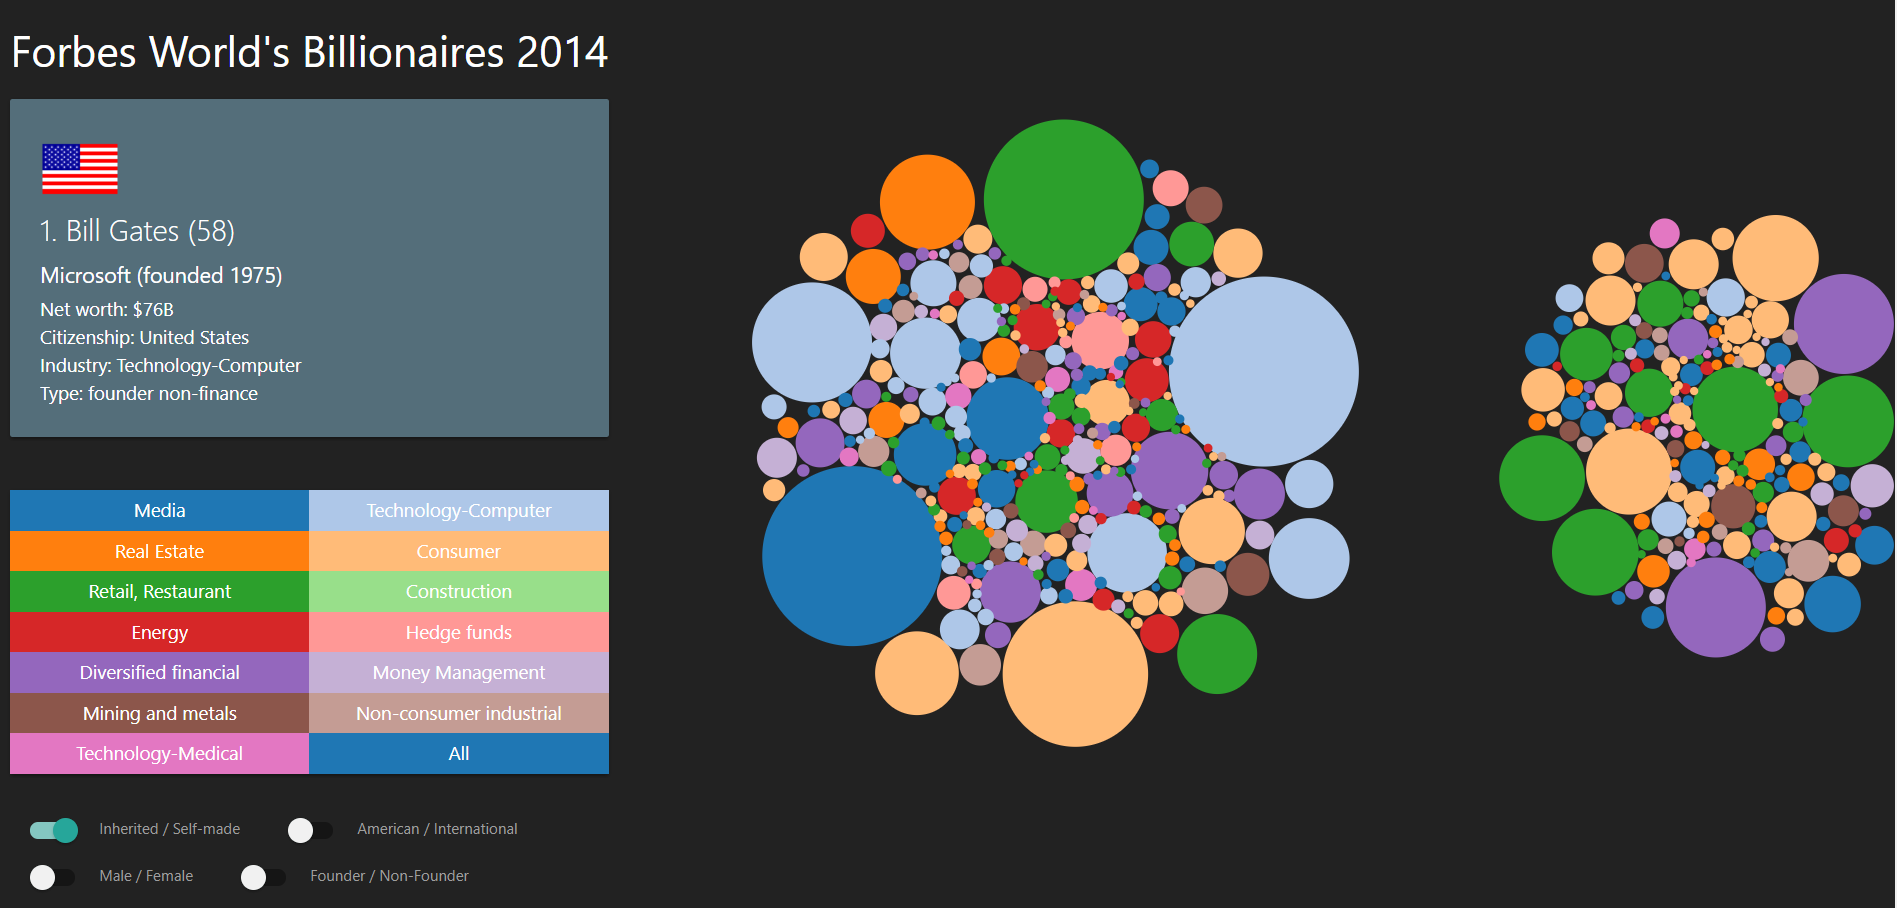
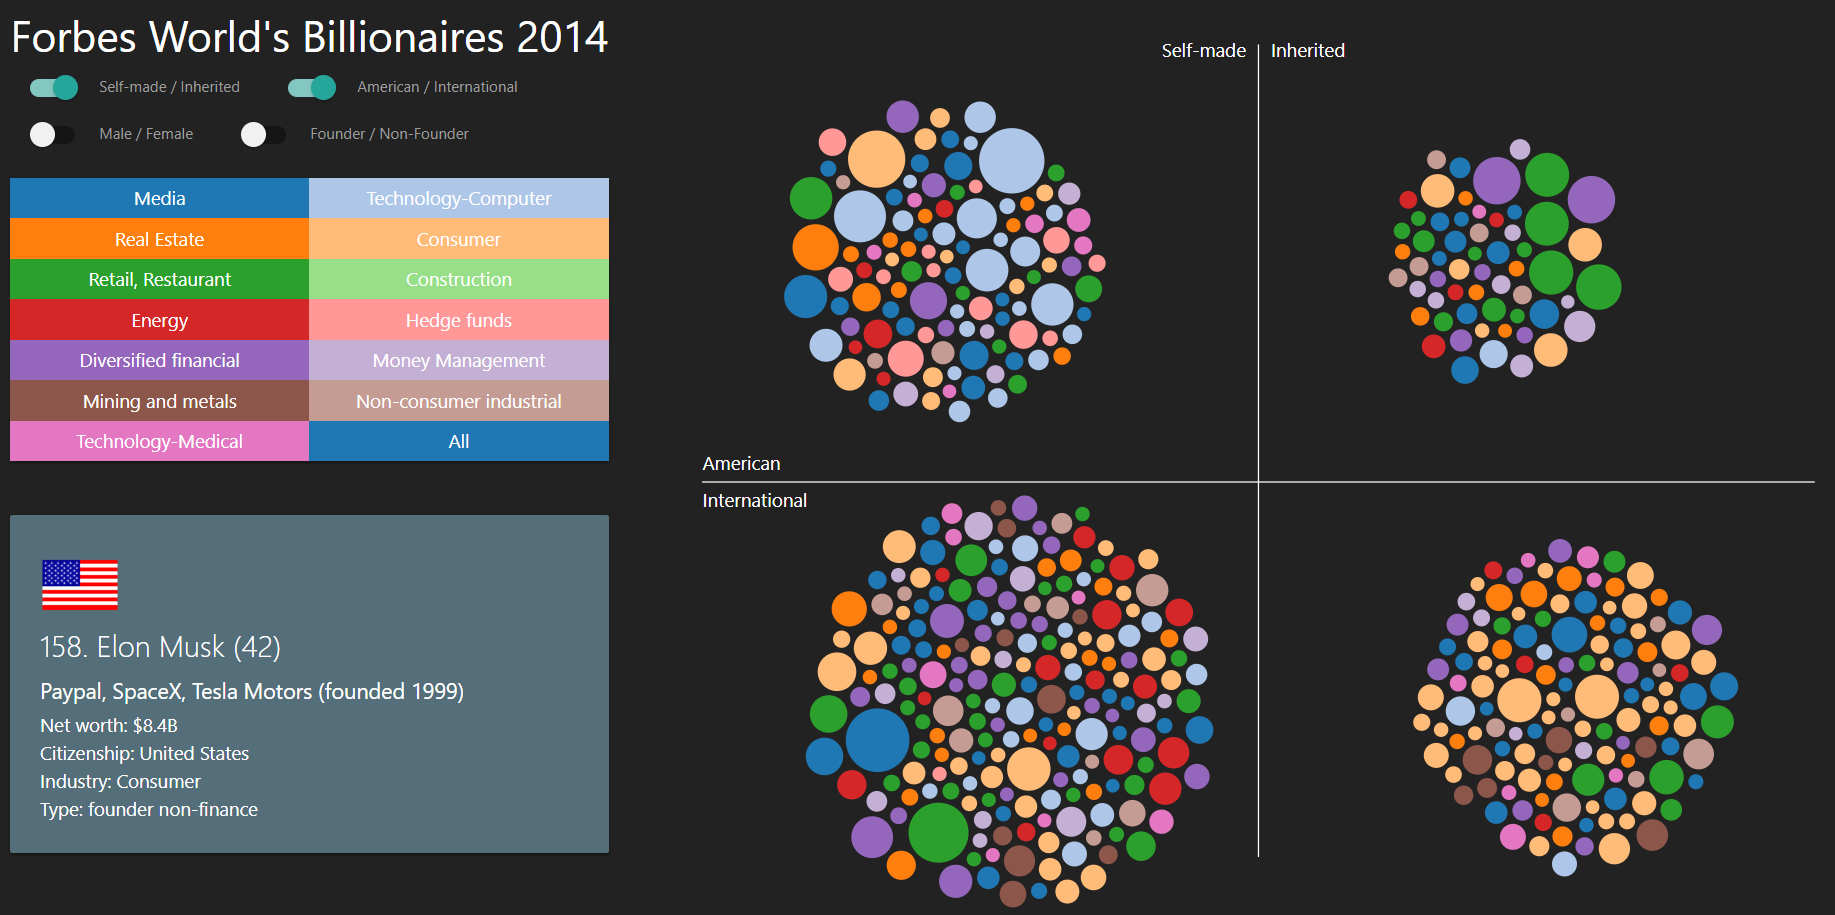
Finished labeled axis

diff --git a/billionaires.js b/billionaires.js
@@ -3,6 +3,7 @@ let allData;
 let width;
 let color = d3.scaleOrdinal(d3.schemeCategory20);
 
+// holds up to two axis over which the data is currently split
 let splitAxis = ["", ""];
 
 $(document).ready(function(){
@@ -23,13 +24,41 @@ $(document).ready(function(){
         if($(this).prop('checked')) {
         	// add an axis and split the data over the current one or two axis
          	addAxis(switchId);
-         	// get the splitting functions from the flickes switches' id's and send it to split to manipulate the data
-			split(splittingFunctions[splitAxis[0]], splittingFunctions[splitAxis[1]]);
 	    } else {
 	    	// remove the 2nd axis
 	    	removeAxis(switchId);
-	    	join();
 	    }
+
+	    console.log(splitAxis);
+
+     	// get the splitting functions from the flickes switches' id's and send it to split to manipulate the data
+		split(splittingFunctions[splitAxis[0]], splittingFunctions[splitAxis[1]]);
+
+    	// now show the appropriate axis on the visualization
+
+    	d3.select("#bubbles-svg").selectAll("g").remove(); // clear the axis canvas
+		let l = d3.select("#bubbles-svg").selectAll("g").data(splitAxis.filter((d) => d !== "")).enter().append("g");
+
+		l.append("line")
+				.attr("x1", (d, i) => (i == 0)? width / 2 : width / 16)
+				.attr("x2", (d, i) => (i == 0)? width / 2 : 15 * width / 16)
+				.attr("y1", (d, i) => (i == 0)? 50 : 400)
+				.attr("y2", (d, i) => (i == 0)? 700 : 400)
+				
+		l.append("text")
+				.attr("x", (d, i) => (i == 0)? (width / 2) - 10 : width / 16)
+				.attr("y", (d, i) => (i == 0)? 60 : 390)
+				.attr("fill", "white")
+				.attr("text-anchor", (d, i) => (i == 0)? "end" : "start")
+				.text((d, i) => splittingText[splitAxis[i]][0])
+				
+		l.append("text")
+				.attr("x", (d, i) => (i == 0)? (width / 2) + 10 : width / 16)
+				.attr("y", (d, i) => (i == 0)? 60 : 420)
+				.attr("fill", "white")
+				.text((d, i) => splittingText[splitAxis[i]][1])
+				.append("text");
+
     });
 
 	// LOAD DATA
@@ -85,9 +114,9 @@ $(document).ready(function(){
 	function buildSimulation() {
 
 		d3.forceSimulation(data)
-				  .force('x', d3.forceX().x(2 * width / 3))
-				  .force('y', d3.forceY().y(350))
-				  .force('collision', d3.forceCollide().radius((d) => 4*Math.sqrt(parseFloat(d.networthusbillion))))
+				  .force('x', d3.forceX().x(width / 2))
+				  .force('y', d3.forceY().y(400))
+				  .force('collision', d3.forceCollide().radius((d) => radius(d) + 2))
 				  .on('tick', ticked);
 
 
@@ -99,7 +128,6 @@ $(document).ready(function(){
 		d3.select("#industry").text("Industry: " + data[0].industry);
 		d3.select("#type").text("Type: " + data[0].typeofwealth);
 		d3.select("#notes").text((data[0].notes)? ("Notes: " + data[0].notes) : "");
-
 		d3.select("#flag").attr("src", "http://www.countryflags.io/" + getCountryCode(data[0]) + "/flat/64.png");
 
 	}
@@ -120,7 +148,21 @@ $(document).ready(function(){
 				    			.on('click', clickLegend);
 	}
 
+	// this function is called iteratively until the force layout has reached steady state
 	function ticked() {
+
+		// check if we're splitting over axis, and set the appropriate functions for cx and cy
+		cx = (d) => Math.max(radius(d), Math.min(width - radius(d), d.x)); // default function (not splitting)
+		cy = (d) => Math.max(radius(d), Math.min(800 - radius(d), d.y));
+
+		// splitting horizontally
+		if(splitAxis[0] !== "") {
+			cx = (d) => splittingFunctions[splitAxis[0]](d)? Math.max(radius(d), Math.min(width/2 - radius(d), d.x)) :  Math.max(radius(d) + width/2, Math.min(width - radius(d), d.x));
+		}
+		// splitting vertically
+		if(splitAxis[1] !== "") {
+			cy = (d) => splittingFunctions[splitAxis[1]](d)? Math.max(radius(d), Math.min(400 - radius(d), d.y)) :  Math.max(radius(d) + 400, Math.min(800 - radius(d), d.y));
+		}
 
 		// select all circles already there
 		let u = d3.select("#bubbles-svg").selectAll("circle").data(data);
@@ -130,39 +172,59 @@ $(document).ready(function(){
 
 		// add new ones (for new data), merge with the old ones and update both of their positions
 		u.enter().append("circle")
-		 		.attr("r", (d) => 3*Math.sqrt(parseFloat(d.networthusbillion)))
+		 		.attr("r", (d) => radius(d))
 				.attr("fill", (d) => {
 					return color(industryColor(d.industry));
 				})
 			    .on('mouseover', mouseover)
 			    .on('mouseout', mouseout)
 				.merge(u)
-				.attr('cx', (d) => d.x = Math.max(parseFloat(d.networthusbillion), Math.min(width - parseFloat(d.networthusbillion), d.x)))
-			    .attr('cy', (d) => d.y = Math.max(parseFloat(d.networthusbillion), Math.min(800 - parseFloat(d.networthusbillion), d.y)));
+				.attr('cx', (d) => d.x = cx(d))
+			    .attr('cy', (d) => d.y = cy(d));
+	}
+
+	// calculates the bubble radius of a specified billionaire based on their wealth
+	function radius(d) {
+		return 3*Math.sqrt(parseFloat(d.networthusbillion));
 	}
 
 	// splits the data over the desired one or two axis'
 	function split(xFunction, yFunction) {
 
-		console.log(yFunction);
+		// split over 2 axis
+		if(xFunction !== undefined && yFunction !== undefined) {
 
-		// data only has to be split over two axis
-		d3.forceSimulation(data)
-					  .force('x', d3.forceX().x((d) => xFunction(d)? ((2 * width / 3) - (width / 2)) : ((2 * width / 3) + (width / 6))))
-					  // if an y function is given split the data according to it, otherwise just set y coordinate = 350
-					  .force('y', d3.forceY().y((d) => (xFunction !== undefined && yFunction !== undefined)? (yFunction(d)? 200 : 600) : 350))
-					  .force('collision', d3.forceCollide().radius((d) => 3*Math.sqrt(parseFloat(d.networthusbillion)) + 2))
+			// transition simulation (billionaires can cross axis)
+			d3.forceSimulation(data)
+					  .force('x', d3.forceX().x((d) => xFunction(d)? (width / 4) : (3 * width / 4)))
+					  // if an y function is given split the data according to it, otherwise just set y coordinate = 400
+					  .force('y', d3.forceY().y((d) => yFunction(d)? 200 : 600))
+					  .force('collision', d3.forceCollide().radius((d) => radius(d) + 2))
 					  .on('tick', ticked);
 
-	}
+		}
+		// split over 1 axis only
+		else if(xFunction !== undefined) {
 
-	function join() {
-		d3.forceSimulation(data)
-				  .force('x', d3.forceX().x(2 * width / 3))
-				  .force('y', d3.forceY().y(350))
-				  .force('collision', d3.forceCollide().radius((d) => 3*Math.sqrt(parseFloat(d.networthusbillion))))
+			// transition simulation (billionaires can cross axis)
+			d3.forceSimulation(data)
+					  .force('x', d3.forceX().x((d) => xFunction(d)? (width / 4) : (3 * width / 4)))
+					  // if an y function is given split the data according to it, otherwise just set y coordinate = 400
+					  .force('y', d3.forceY().y((d) => 400))
+					  .force('collision', d3.forceCollide().radius((d) => radius(d) + 2))
+					  .on('tick', ticked);
+
+		}
+		// join all data
+		else {
+
+			d3.forceSimulation(data)
+				  .force('x', d3.forceX().x(width / 2))
+				  .force('y', d3.forceY().y(400))
+				  .force('collision', d3.forceCollide().radius((d) => radius(d)))
 				  .on('tick', ticked);
 
+		}
 	}
 
 	function mouseover(d, i) {
@@ -193,21 +255,7 @@ $(document).ready(function(){
 	}
 
 	function clickLegend(d, i) {
-	/*	// remove irrelevant data
-		
-		data = allData.filter((a) => {
-				return a.year === 2014;
-			}).slice(0, 500);
-	*/
-		data = data.filter((a) => {
-				return a.industry === "Energy";
-			});
 
-		d3.forceSimulation(data)
-				  .force('x', d3.forceX().x(2 * width / 3))
-				  .force('y', d3.forceY().y(350))
-				  .force('collision', d3.forceCollide().radius((d) => parseInt(d.networthusbillion) + 1))
-				  .on('tick', ticked);
 	}
 
 	// adds an axis and, if two axis's were already chosen, removes the oldest one
@@ -216,8 +264,6 @@ $(document).ready(function(){
 		// update active axis: add checked switch to thefront of the array and untoggle the rest
 		splitAxis.unshift(newAxis);
 		splitAxis.length = 2;
-
-		console.log(splitAxis);
 
 		$('#inherited-check').find("input[type=checkbox]").prop('checked', splitAxis.indexOf("#inherited-check") !== -1);
 		$('#gender-check').find("input[type=checkbox]").prop('checked', splitAxis.indexOf("#gender-check") !== -1);
@@ -228,12 +274,10 @@ $(document).ready(function(){
 	// removes one of the current two axis
 	function removeAxis(axisToRemove) {
 
-		splitAxis.splice(splitAxis.indexOf(axisToRemove));
-
-		console.log(splitAxis);
+		splitAxis.splice(splitAxis.indexOf(axisToRemove), 1);
+		splitAxis.push("");
 
 		$(axisToRemove).find("input[type=checkbox]").prop('checked', false);
-
 
 	}
 
@@ -279,6 +323,14 @@ const splittingFunctions = {
 	"#american-check" : (d) => d.countrycode === 'USA',
 	"#gender-check" : (d) => d.gender === 'male',
 	"#founder-check" : (d) => d.founder === '1'
+}
+
+// maps the switch id's to the appropriate axis text
+const splittingText = {
+	"#inherited-check" : ["Self-made", "Inherited"],
+	"#american-check" : ["American", "International"],
+	"#gender-check" : ["Male", "Female"],
+	"#founder-check" : ["Founder", "Non-Founder"]
 }
 
 // maps the dataset country codes to the country codes used by the flags API
@@ -332,5 +384,6 @@ const country_codes = {
 		"UKR" : "ua",
 		"POL" : "pl",
 		"NZL" : "nz",
-		"NOR" : "no"
+		"NOR" : "no",
+		"AGO" : "ao"
 };

diff --git a/billionaires.html b/billionaires.html
@@ -31,7 +31,7 @@
 				    <label>
 				      <input switch-id="inherited-check" type="checkbox">
 				      <span class="lever"></span>
-				      Inherited / Self-made
+				      Self-made / Inherited
 				    </label>
 				  </div>
 

diff --git a/billionaires.css b/billionaires.css
@@ -49,3 +49,8 @@ svg{
 	display: inline-block;
 	text-align: center;
 }
+
+line{
+	stroke: rgb(255, 255, 255);
+	stroke-width: 1;
+}
